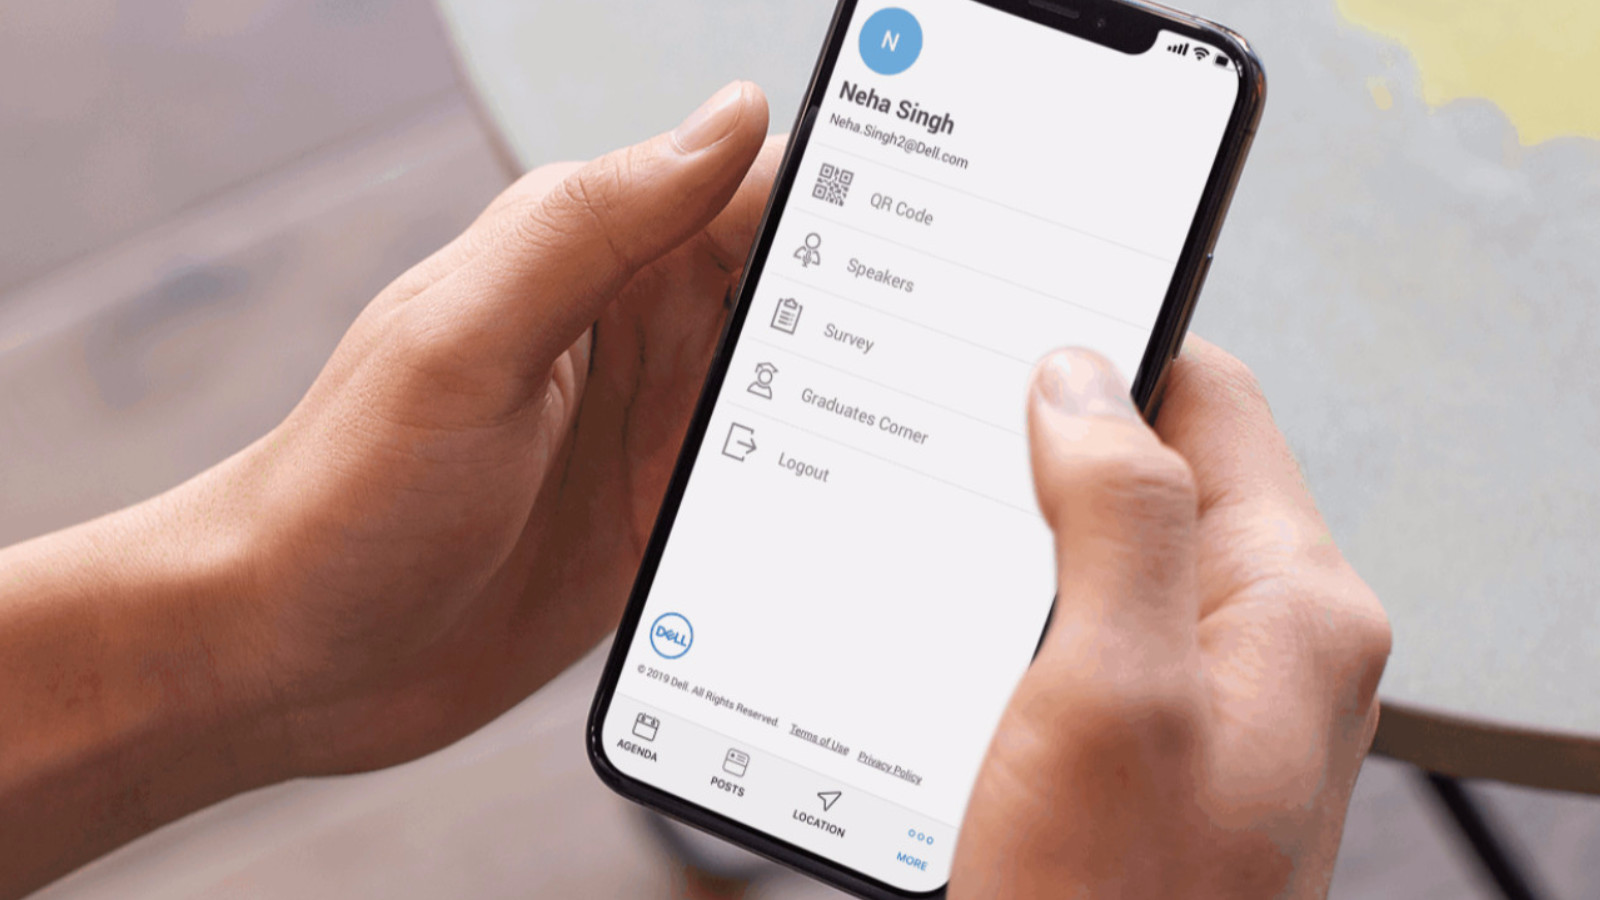
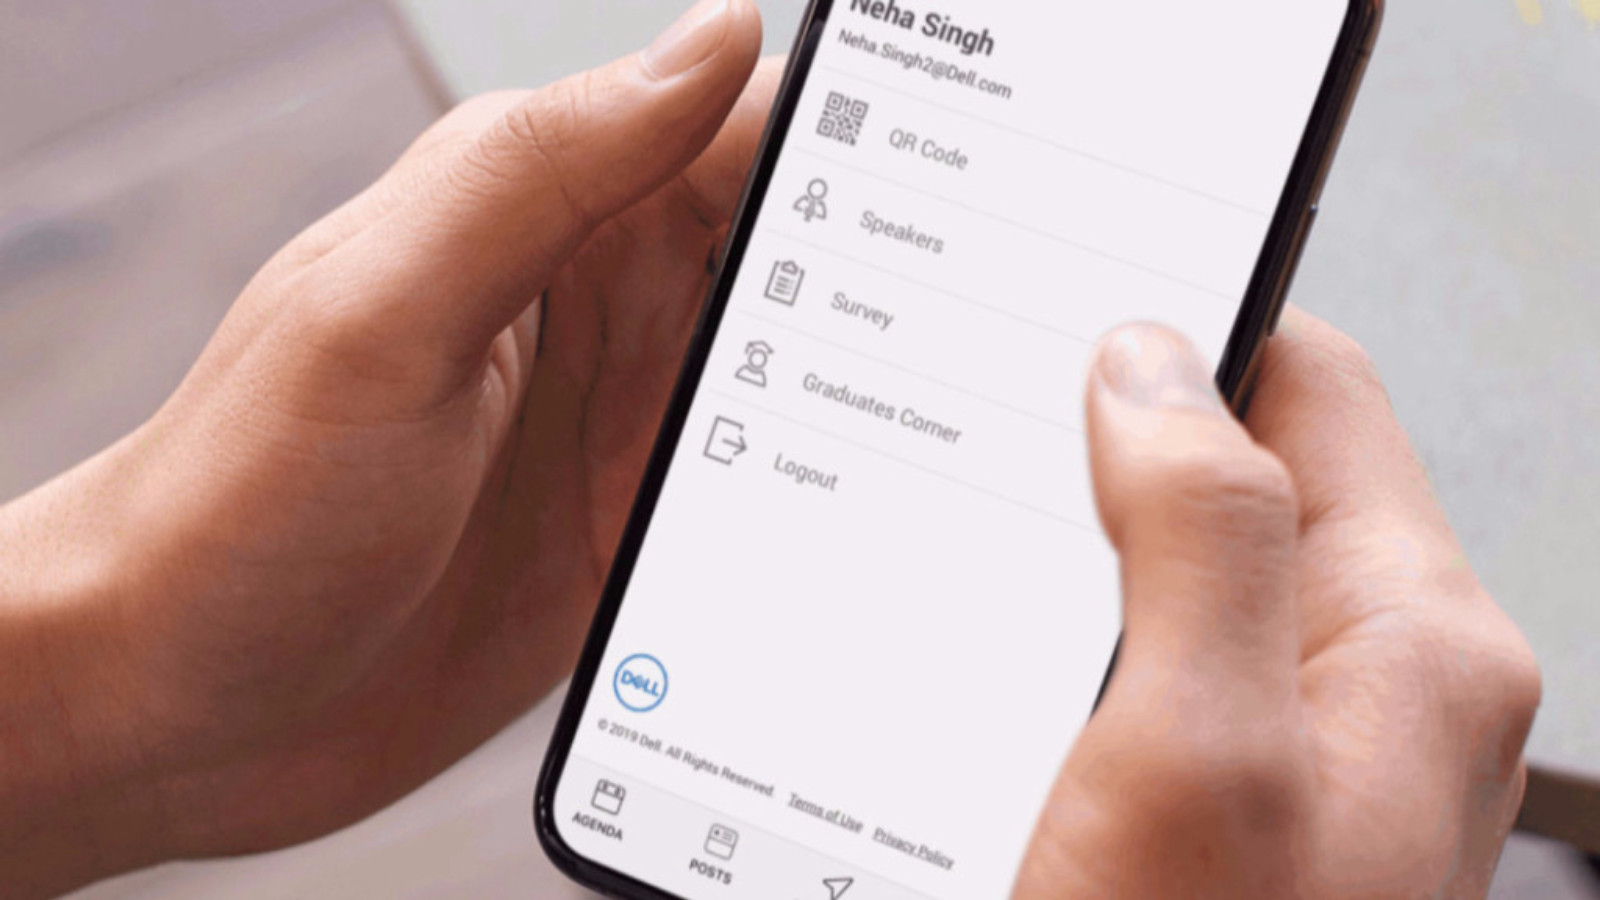
create github pages

diff --git a/index.html b/index.html
@@ -24,13 +24,13 @@
 <link rel="stylesheet" href="assets/wowslider-init/animated/style.css">
 </head>
 <body>
-  <section class="mbr-wowslider-container mbr-section mbr-section__container carousel slide mbr-section-nopadding mbr-wowslider-container--animated" data-ride="carousel" data-keyboard="false" data-wrap="true" data-interval="false" id="wowslider-1" data-rv-view="3" style="background-color: rgb(255, 255, 255);">
+  <section class="mbr-wowslider-container mbr-section mbr-section__container carousel slide mbr-section-nopadding mbr-wowslider-container--animated" data-ride="carousel" data-keyboard="false" data-wrap="true" data-interval="false" id="wowslider-1" data-rv-view="45" style="background-color: rgb(255, 255, 255);">
     <div class="mbr-wowslider">
         <div class="ws_images">
             <ul>
                 <li>
                     
-                    <img src="assets/images/mockup-of-an-iphone-xs-held-by-a-man-outside-25532-1-1024x576.jpg" alt="Event" title="Event"> A Platform to create Your Event
+                    <img src="assets/images/mockup-of-an-iphone-xs-held-by-a-man-outside-25532-1-1600x900.jpg" alt="Event" title="Event"> A Platform to create Your Event
                 </li><li>
                     
                     <img src="assets/images/mockup-of-an-iphone-xs-held-by-a-man-outside-25532-1024x576.jpg" alt="title 1" title="title 1"> text 1
@@ -79,11 +79,11 @@
         </div>
         <div class="ws_shadow"></div>
         <div class="mbr-wowslider-options">
-            <div class="params" data-paddingbottom="1" data-anim-type="carousel" data-theme="animated" data-autoplay="true" data-paddingtop="0" data-fullscreen="true" data-showbullets="false" data-timeout="2" data-duration="2" data-height="576" data-width="1024" data-responsive="1" data-showcaptions="true" data-captionseffect="slide" data-hidecontrols="true"></div>
+            <div class="params" data-paddingbottom="1" data-anim-type="carousel" data-theme="animated" data-autoplay="true" data-paddingtop="0" data-fullscreen="true" data-showbullets="false" data-timeout="2" data-duration="2" data-height="576" data-width="1024" data-responsive="2" data-showcaptions="true" data-captionseffect="slide" data-hidecontrols="true"></div>
         </div>
 </div></section>
 
-<section class="engine"><a href="https://mobiri.se/f">easy web builder</a></section><section class="mbr-section mbr-section--no-padding mbr-soundcloud-container" id="soundcloud2-2" data-rv-view="89" style="background-color: rgb(255, 255, 255); padding-top: 0rem; padding-bottom: 0rem;">
+<section class="engine"><a href="https://mobiri.se/i">free web creation software</a></section><section class="mbr-section mbr-section--no-padding mbr-soundcloud-container" id="soundcloud2-2" data-rv-view="69" style="background-color: rgb(255, 255, 255); padding-top: 0rem; padding-bottom: 0rem;">
     <div class="mbr-section__container addons-container addons-row">
             <div class=" addons-container-inner">
                 <figure class="mbr-figure mbr-figure--wysiwyg mbr-figure--full-width mbr-figure--caption-outside-bottom">
@@ -219,7 +219,7 @@
   </div>
 </section>
 
-<section class="mbr-section mbr-section--no-padding mbr-soundcloud-container" id="soundcloud2-3" data-rv-view="91" style="background-color: rgb(255, 255, 255); padding-top: 0rem; padding-bottom: 0rem;">
+<section class="mbr-section mbr-section--no-padding mbr-soundcloud-container" id="soundcloud2-3" data-rv-view="85" style="background-color: rgb(255, 255, 255); padding-top: 0rem; padding-bottom: 0rem;">
     <div class="mbr-section__container addons-container addons-row">
             <div class=" addons-container-inner">
                 <figure class="mbr-figure mbr-figure--wysiwyg mbr-figure--full-width mbr-figure--caption-outside-bottom">
